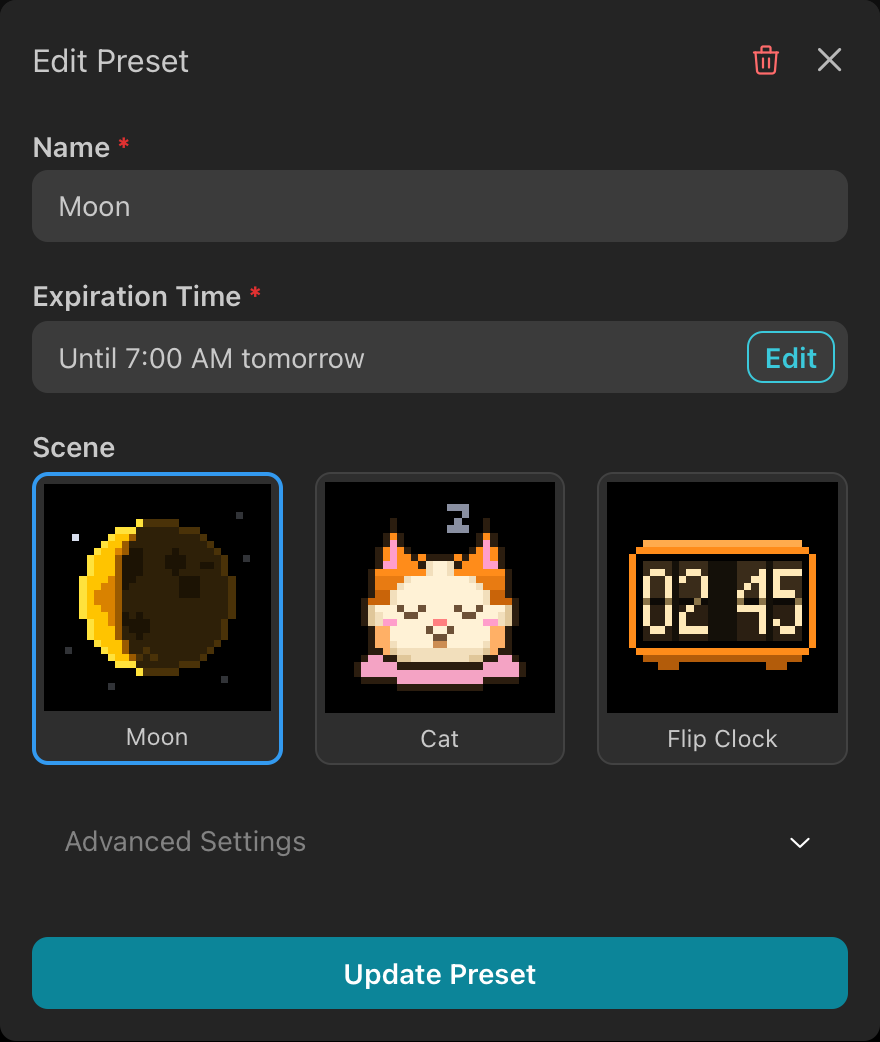
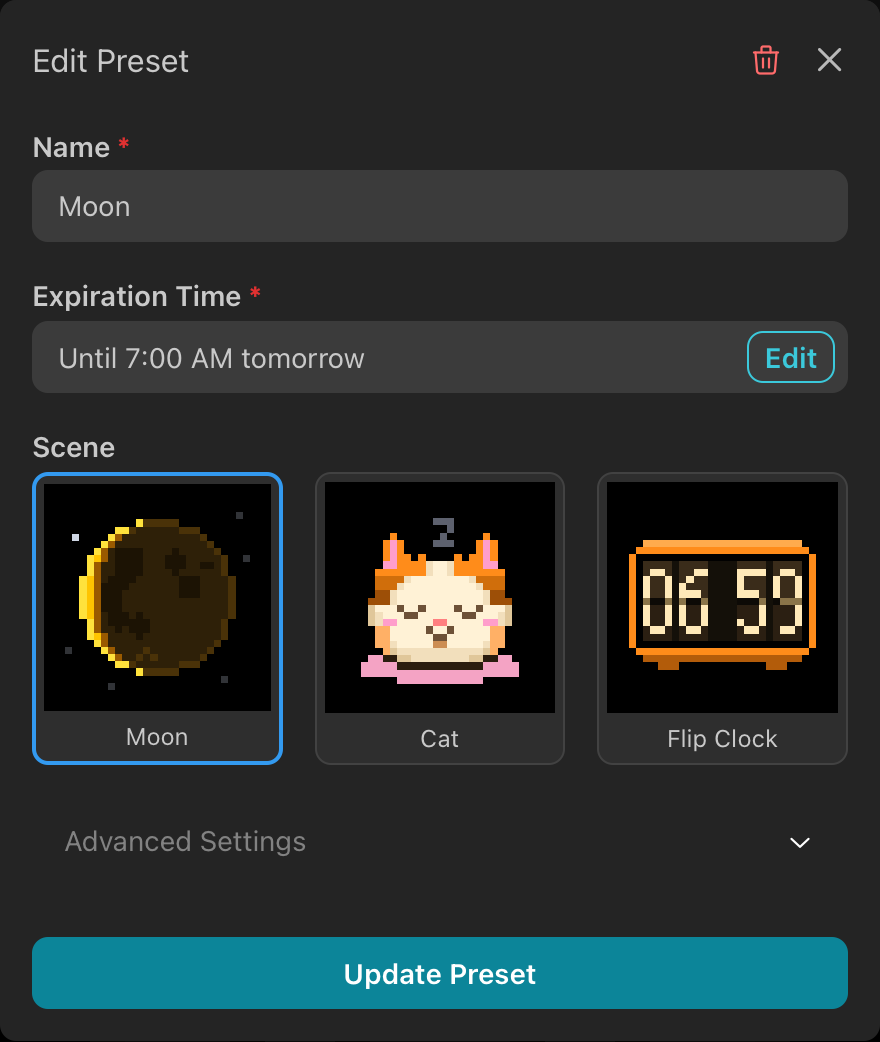
Drop the cat's outline ring so it stops haloing
The silhouette was wrapped in a ring of #2b1d0f. That colour is dark brown,
not black, so on unlit LEDs it did not read as an edge -- it read as a dim
glow bleeding off the cat into the panel.

Removes only that ring, iterating until no dark pixel touches the background,
which takes two passes: the second layer at the bed's outer corners is only
exposed once the first comes off. 82 of 420 pixels go. Not one previously
visible pixel changes colour, so the ear shape and fur ramp from #194 are
exactly as they were.

Two pixels needed a repair rather than a deletion. The small fur tufts either
side of the crown were left sitting on a lone dark pixel once the ring went,
reading as specks floating over a notch, so 11:10 and 16:10 become fur orange
and the tufts join the head. That also makes the fur-to-face boundary
consistent, since nowhere else along it carries a dark separator.

The 16 dark pixels that survive are all interior -- the shadow where the body
meets the pink bed. They never touch the background, so they read as depth
rather than halo.

Dissolving the ring into its neighbouring colours was tried first, since that
would have kept the cat a pixel wider all round. Rejected: filling those pixels
welded the two ears into one orange band across the top of the head and
fattened the ears well past the tapered shape chosen in #194. Deleting is also
the more honest edit, because the outline sat outside the fill -- taking it
[…]

Changed region(s): [[0.3989, 0.4914, 0.6136, 0.6756], [0.767, 0.5221, 0.9205, 0.6142], [0.092, 0.4914, 0.1534, 0.6449]]

diff --git a/src/scenes/cat/sprite.ts b/src/scenes/cat/sprite.ts
@@ -9,75 +9,46 @@ export const catSprite: Sprite = {
   width: 28,
   height: 28,
   pixels: {
-    "6:5": "#2b1d0f",
-    "7:5": "#2b1d0f",
-    "8:5": "#2b1d0f",
-    "19:5": "#2b1d0f",
-    "20:5": "#2b1d0f",
-    "21:5": "#2b1d0f",
-    "6:6": "#2b1d0f",
     "7:6": "#ff8c1a",
-    "8:6": "#2b1d0f",
-    "19:6": "#2b1d0f",
     "20:6": "#ff8c1a",
-    "21:6": "#2b1d0f",
-    "5:7": "#2b1d0f",
     "6:7": "#ff8c1a",
     "7:7": "#ff9ecb",
     "8:7": "#ff8c1a",
-    "9:7": "#2b1d0f",
-    "18:7": "#2b1d0f",
     "19:7": "#ff8c1a",
     "20:7": "#ff9ecb",
     "21:7": "#ff8c1a",
-    "22:7": "#2b1d0f",
-    "5:8": "#2b1d0f",
     "6:8": "#ff8c1a",
     "7:8": "#ff9ecb",
     "8:8": "#ff8c1a",
-    "9:8": "#2b1d0f",
-    "18:8": "#2b1d0f",
     "19:8": "#ff8c1a",
     "20:8": "#ff9ecb",
     "21:8": "#ff8c1a",
-    "22:8": "#2b1d0f",
-    "5:9": "#2b1d0f",
     "6:9": "#ff8c1a",
     "7:9": "#ff9ecb",
     "8:9": "#ff8c1a",
     "9:9": "#ff8c1a",
-    "10:9": "#2b1d0f",
     "11:9": "#ff8c1a",
-    "12:9": "#2b1d0f",
-    "13:9": "#2b1d0f",
-    "14:9": "#2b1d0f",
-    "15:9": "#2b1d0f",
     "16:9": "#ff8c1a",
-    "17:9": "#2b1d0f",
     "18:9": "#ff8c1a",
     "19:9": "#ff8c1a",
     "20:9": "#ff9ecb",
     "21:9": "#ff8c1a",
-    "22:9": "#2b1d0f",
-    "5:10": "#2b1d0f",
     "6:10": "#ff9ecb",
     "7:10": "#ff9ecb",
     "8:10": "#ff8c1a",
     "9:10": "#ff8c1a",
     "10:10": "#ff8c1a",
-    "11:10": "#2b1d0f",
+    "11:10": "#ff8c1a",
     "12:10": "#f2dfbc",
     "13:10": "#fff2d6",
     "14:10": "#fff2d6",
     "15:10": "#f2dfbc",
-    "16:10": "#2b1d0f",
+    "16:10": "#ff8c1a",
     "17:10": "#ff8c1a",
     "18:10": "#ff8c1a",
     "19:10": "#ff8c1a",
     "20:10": "#ff9ecb",
     "21:10": "#ff9ecb",
-    "22:10": "#2b1d0f",
-    "4:11": "#2b1d0f",
     "5:11": "#ff8c1a",
     "6:11": "#ff8c1a",
     "7:11": "#ff8c1a",
@@ -96,8 +67,6 @@ export const catSprite: Sprite = {
     "20:11": "#ff8c1a",
     "21:11": "#ff8c1a",
     "22:11": "#ff8c1a",
-    "23:11": "#2b1d0f",
-    "4:12": "#2b1d0f",
     "5:12": "#d06e0b",
     "6:12": "#d06e0b",
     "7:12": "#d06e0b",
@@ -116,8 +85,6 @@ export const catSprite: Sprite = {
     "20:12": "#d06e0b",
     "21:12": "#d06e0b",
     "22:12": "#d06e0b",
-    "23:12": "#2b1d0f",
-    "4:13": "#2b1d0f",
     "5:13": "#d06e0b",
     "6:13": "#d06e0b",
     "7:13": "#d06e0b",
@@ -136,8 +103,6 @@ export const catSprite: Sprite = {
     "20:13": "#d06e0b",
     "21:13": "#d06e0b",
     "22:13": "#d06e0b",
-    "23:13": "#2b1d0f",
-    "4:14": "#2b1d0f",
     "5:14": "#9d4f07",
     "6:14": "#9d4f07",
     "7:14": "#f2dfbc",
@@ -156,8 +121,6 @@ export const catSprite: Sprite = {
     "20:14": "#f2dfbc",
     "21:14": "#9d4f07",
     "22:14": "#9d4f07",
-    "23:14": "#2b1d0f",
-    "3:15": "#2b1d0f",
     "4:15": "#9d4f07",
     "5:15": "#9d4f07",
     "6:15": "#9d4f07",
@@ -178,8 +141,6 @@ export const catSprite: Sprite = {
     "21:15": "#9d4f07",
     "22:15": "#9d4f07",
     "23:15": "#9d4f07",
-    "24:15": "#2b1d0f",
-    "3:16": "#2b1d0f",
     "4:16": "#e0c79a",
     "5:16": "#fff2d6",
     "6:16": "#fff2d6",
@@ -200,8 +161,6 @@ export const catSprite: Sprite = {
     "21:16": "#fff2d6",
     "22:16": "#fff2d6",
     "23:16": "#e0c79a",
-    "24:16": "#2b1d0f",
-    "3:17": "#2b1d0f",
     "4:17": "#e0c79a",
     "5:17": "#f2dfbc",
     "6:17": "#fff2d6",
@@ -222,8 +181,6 @@ export const catSprite: Sprite = {
     "21:17": "#fff2d6",
     "22:17": "#f2dfbc",
     "23:17": "#e0c79a",
-    "24:17": "#2b1d0f",
-    "3:18": "#2b1d0f",
     "4:18": "#e0c79a",
     "5:18": "#f2dfbc",
     "6:18": "#ff9ecb",
@@ -244,8 +201,6 @@ export const catSprite: Sprite = {
     "21:18": "#ff9ecb",
     "22:18": "#f2dfbc",
     "23:18": "#e0c79a",
-    "24:18": "#2b1d0f",
-    "4:19": "#2b1d0f",
     "5:19": "#ffb066",
     "6:19": "#ffb066",
     "7:19": "#fff2d6",
@@ -264,8 +219,6 @@ export const catSprite: Sprite = {
     "20:19": "#fff2d6",
     "21:19": "#ffb066",
     "22:19": "#ffb066",
-    "23:19": "#2b1d0f",
-    "4:20": "#2b1d0f",
     "5:20": "#ffb066",
     "6:20": "#ffb066",
     "7:20": "#fff2d6",
@@ -284,8 +237,6 @@ export const catSprite: Sprite = {
     "20:20": "#fff2d6",
     "21:20": "#ffb066",
     "22:20": "#ffb066",
-    "23:20": "#2b1d0f",
-    "4:21": "#2b1d0f",
     "5:21": "#ffb066",
     "6:21": "#ffb066",
     "7:21": "#f2dfbc",
@@ -304,9 +255,6 @@ export const catSprite: Sprite = {
     "20:21": "#f2dfbc",
     "21:21": "#ffb066",
     "22:21": "#ffb066",
-    "23:21": "#2b1d0f",
-    "4:22": "#2b1d0f",
-    "5:22": "#2b1d0f",
     "6:22": "#ffb066",
     "7:22": "#e0c79a",
     "8:22": "#f2dfbc",
@@ -323,9 +271,6 @@ export const catSprite: Sprite = {
     "19:22": "#f2dfbc",
     "20:22": "#e0c79a",
     "21:22": "#ffb066",
-    "22:22": "#2b1d0f",
-    "23:22": "#2b1d0f",
-    "3:23": "#2b1d0f",
     "4:23": "#f4a3c4",
     "5:23": "#f4a3c4",
     "6:23": "#2b1d0f",
@@ -346,8 +291,6 @@ export const catSprite: Sprite = {
     "21:23": "#2b1d0f",
     "22:23": "#f4a3c4",
     "23:23": "#f4a3c4",
-    "24:23": "#2b1d0f",
-    "2:24": "#2b1d0f",
     "3:24": "#f4a3c4",
     "4:24": "#f4a3c4",
     "5:24": "#f4a3c4",
@@ -370,8 +313,6 @@ export const catSprite: Sprite = {
     "22:24": "#f4a3c4",
     "23:24": "#f4a3c4",
     "24:24": "#f4a3c4",
-    "25:24": "#2b1d0f",
-    "2:25": "#2b1d0f",
     "3:25": "#f4a3c4",
     "4:25": "#f4a3c4",
     "5:25": "#f4a3c4",
@@ -394,12 +335,6 @@ export const catSprite: Sprite = {
     "22:25": "#f4a3c4",
     "23:25": "#f4a3c4",
     "24:25": "#f4a3c4",
-    "25:25": "#2b1d0f",
-    "3:26": "#2b1d0f",
-    "4:26": "#2b1d0f",
-    "5:26": "#2b1d0f",
-    "6:26": "#2b1d0f",
-    "7:26": "#2b1d0f",
     "8:26": "#f4a3c4",
     "9:26": "#f4a3c4",
     "10:26": "#f4a3c4",
@@ -412,22 +347,5 @@ export const catSprite: Sprite = {
     "17:26": "#f4a3c4",
     "18:26": "#f4a3c4",
     "19:26": "#f4a3c4",
-    "20:26": "#2b1d0f",
-    "21:26": "#2b1d0f",
-    "22:26": "#2b1d0f",
-    "23:26": "#2b1d0f",
-    "24:26": "#2b1d0f",
-    "8:27": "#2b1d0f",
-    "9:27": "#2b1d0f",
-    "10:27": "#2b1d0f",
-    "11:27": "#2b1d0f",
-    "12:27": "#2b1d0f",
-    "13:27": "#2b1d0f",
-    "14:27": "#2b1d0f",
-    "15:27": "#2b1d0f",
-    "16:27": "#2b1d0f",
-    "17:27": "#2b1d0f",
-    "18:27": "#2b1d0f",
-    "19:27": "#2b1d0f",
   },
 };
